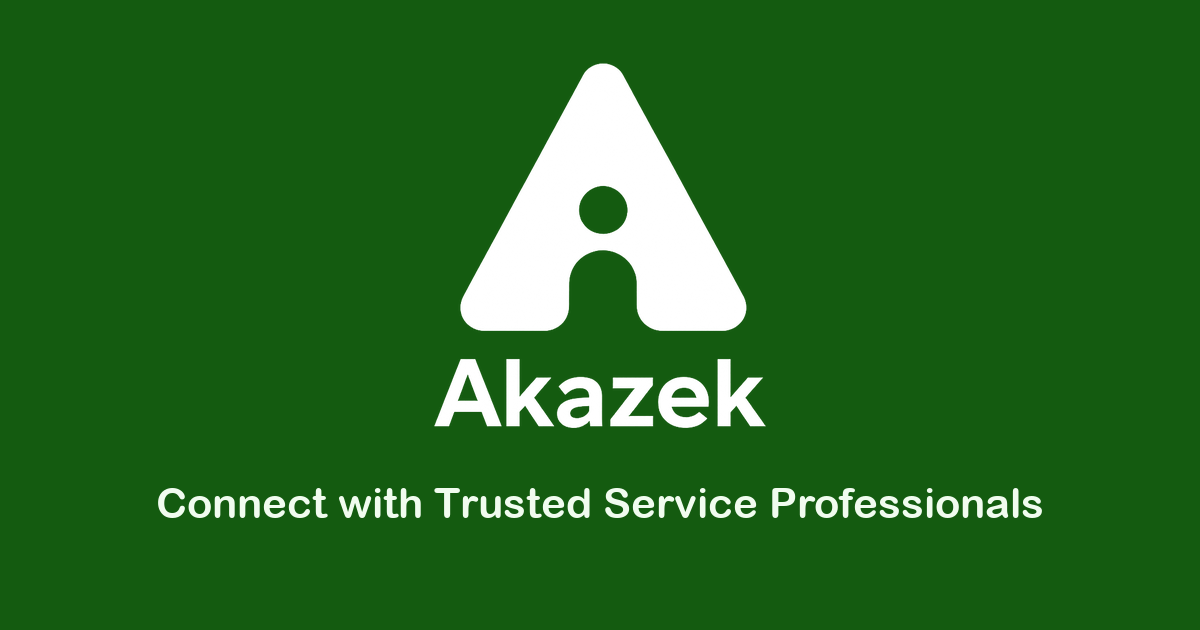
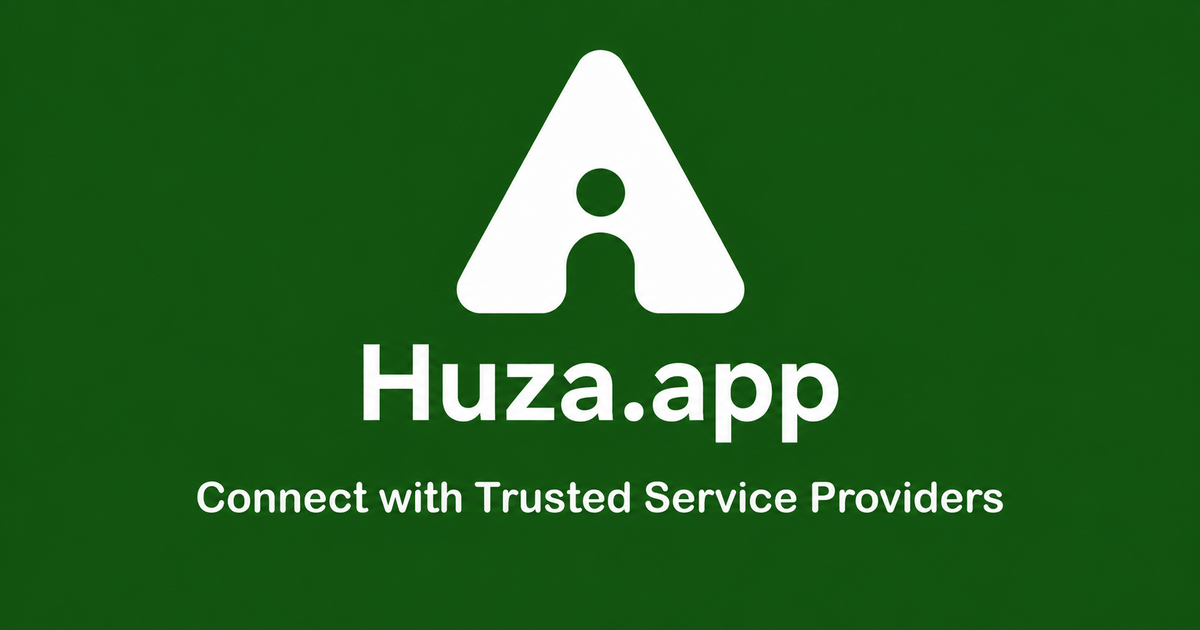
Fix stale Akazek branding in link previews, add rw og-image variant
public/og-image.png still had the old "Akazek" wordmark baked into
the pixels (a static image, not text — the rebrand never touched it),
so every shared app link showed the wrong brand name regardless of
openGraph title text already saying "Huza". Replaced it with the
provided designed asset.

Also adds public/og-image-rw.png and wires app/page.tsx's metadata to
a `?lang=` query param: link-preview crawlers fetch URLs anonymously
and cache per exact URL, so there's no way to reflect "the sharer's
app language" without encoding it in the URL itself. A share link
ending in "?lang=rw" now gets the Kinyarwanda image/title/description;
anything else (including a bare share of "/") defaults to English.

diff --git a/app/page.tsx b/app/page.tsx
@@ -3,33 +3,70 @@ import type { Metadata } from "next";
 import Homepage from "./(home)/overview/page";
 import Loader from "@/components/loader/loader";
 import { APP_CONFIG } from "@/constant/app.config";
+import { toLocale } from "@/i18n/config";
 
-export const metadata: Metadata = {
-  // Name only — this page-level title overrides the root layout's, and iOS
-  // shows it in the share-sheet/install flow (see app/layout.tsx). The
-  // tagline stays in openGraph.title below for shared-link previews.
-  title: APP_CONFIG.name,
-  description: APP_CONFIG.description,
-  alternates: {
-    canonical: "/",
-  },
-  openGraph: {
-    title: `${APP_CONFIG.name} - ${APP_CONFIG.tagline}`,
+// Link-preview crawlers (WhatsApp, Telegram, Facebook, ...) fetch this URL
+// anonymously and cache the resulting preview per exact URL — they never see
+// the visitor's `locale` cookie, so the *only* way a shared link's preview can
+// show Kinyarwanda copy is if the language is encoded in the URL itself. A
+// share action that wants an rw preview should link to "/?lang=rw"; anything
+// else (including a bare share of "/") falls back to English.
+const OG_CONTENT = {
+  en: {
+    tagline: APP_CONFIG.tagline,
     description: APP_CONFIG.description,
-    url: "/",
-    // Must be repeated here: a page-level openGraph object REPLACES the root
-    // layout's wholesale (no deep merge), so without this the homepage — the
-    // link people actually share — had no og:image at all.
-    images: [
-      {
-        url: "/og-image.png",
-        width: 1200,
-        height: 630,
-        alt: `${APP_CONFIG.name} - ${APP_CONFIG.tagline}`,
-      },
-    ],
+    image: "/og-image.png",
   },
-};
+  rw: {
+    tagline: "Hura n'Abatanga Serivisi Zizewe",
+    description:
+      "Isoko ry'imirimo yo mu rugo mu Rwanda rihuza imiryango n'abakozi ba serivisi bemejwe.",
+    image: "/og-image-rw.png",
+  },
+} as const;
+
+export async function generateMetadata({
+  searchParams,
+}: {
+  searchParams: Promise<{ lang?: string }>;
+}): Promise<Metadata> {
+  const { lang } = await searchParams;
+  const locale = toLocale(lang);
+  const { tagline, description, image } = OG_CONTENT[locale];
+
+  return {
+    // Name only — this page-level title overrides the root layout's, and iOS
+    // shows it in the share-sheet/install flow (see app/layout.tsx). The
+    // tagline stays in openGraph.title below for shared-link previews.
+    title: APP_CONFIG.name,
+    description,
+    alternates: {
+      canonical: "/",
+    },
+    openGraph: {
+      title: `${APP_CONFIG.name} - ${tagline}`,
+      description,
+      url: lang ? `/?lang=${locale}` : "/",
+      // Must be repeated here: a page-level openGraph object REPLACES the root
+      // layout's wholesale (no deep merge), so without this the homepage — the
+      // link people actually share — had no og:image at all.
+      images: [
+        {
+          url: image,
+          width: 1200,
+          height: 630,
+          alt: `${APP_CONFIG.name} - ${tagline}`,
+        },
+      ],
+    },
+    twitter: {
+      card: "summary_large_image",
+      title: `${APP_CONFIG.name} - ${tagline}`,
+      description,
+      images: [image],
+    },
+  };
+}
 
 export default function Page() {
   return (
